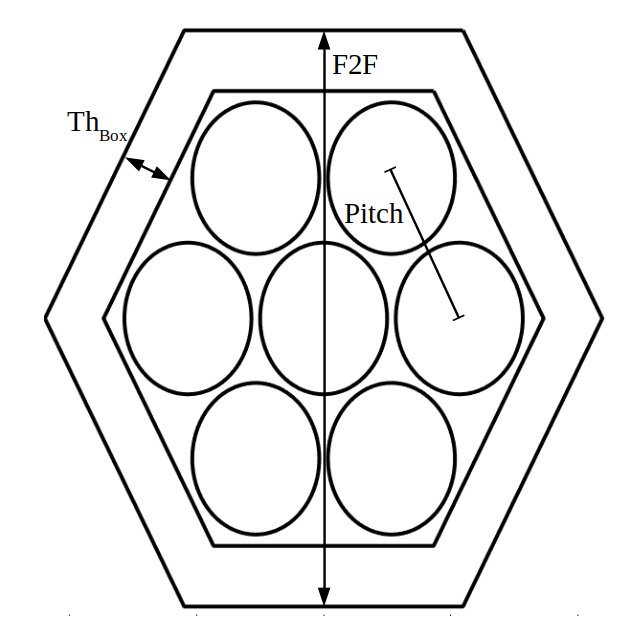
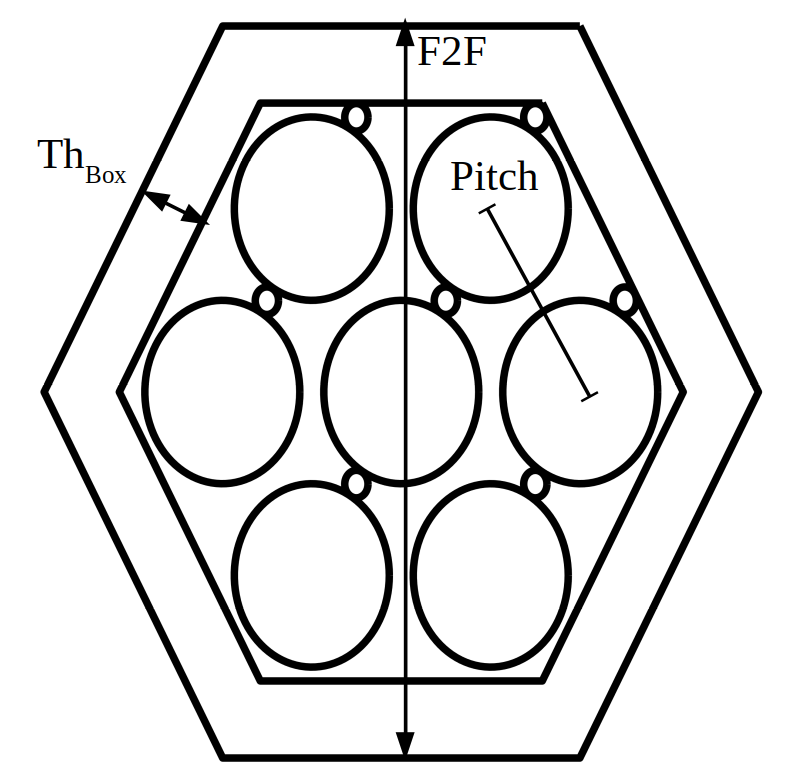
updating some figures

Changed region(s): [[0.0312, 0.0, 0.9672, 0.9952]]

diff --git a/ch04_thermalHydraulics/figs/matlab/geom_build.m b/ch04_thermalHydraulics/figs/matlab/geom_build.m
@@ -1,0 +1,96 @@
+clear
+close all
+
+% plot wedge --> chunk --> Hex
+f2f = 1;
+LW = 2;
+
+half = 0.5 * f2f;
+side = (2.0 * half) / sqrt(3.0);
+base = 0.5 * side;
+% hex with f2f=1, centered at origin
+hex = [...
+    0,0,0;
+    base, half, 0;
+    -base, half,0;
+    0,0,0;
+    -base, half,0;
+    -side, 0,0;
+    0,0,0;
+    -side, 0,0;
+    -base, -half,0;
+    0,0,0;
+    -base, -half,0;
+    base, -half,0;
+    0,0,0;
+    base, -half,0;
+    side,0,0;
+    0,0,0;
+    side,0,0;
+    base,half,0
+    ];
+hex(:,2)=hex(:,2)+half;
+height = 4*side;
+
+assy_front = [...
+    -side, 0,height;
+    -side, 0,0;
+    -base, -half,0;
+    -base, -half,height;
+    -base, -half,0;
+    base, -half,0;
+    base, -half,height;
+    base, -half,0;
+    side,0,0;
+    side,0,height;
+    ];
+assy_front(:,2)=assy_front(:,2)+half;
+   
+first_wedge_front = [...
+    0 0 height;
+    side 0 height;
+    side*cos(pi/3) side*sin(pi/3) height;
+    0 0 height;
+    0 0 0;
+    side 0 0;
+    side 0 height;
+    ];
+first_wedge_rear = [...
+    0 0 0;
+    side*cos(pi/3) side*sin(pi/3) 0;
+    side*cos(pi/3) side*sin(pi/3) height;
+    side*cos(pi/3) side*sin(pi/3) 0;
+    side 0 0;
+    ];    
+   
+figure
+z1 = ones(size(hex(:,1)));
+hold on
+% wedge
+plot3(first_wedge_front(:,1),first_wedge_front(:,2),first_wedge_front(:,3),'k','LineWidth',LW)
+plot3(first_wedge_rear(:,1), first_wedge_rear(:,2), first_wedge_rear(:,3),'--k','LineWidth',LW)
+
+% chunk
+chunk_offset = 3;
+plot3(hex(:,1)+chunk_offset,hex(:,2),hex(:,3)+height,'k','LineWidth',LW);
+plot3(assy_front(:,1)+chunk_offset,assy_front(:,2),assy_front(:,3),'k','LineWidth',LW)
+
+% chevron
+
+% hex
+hex_offset = 6;
+plot3(hex(:,1)+hex_offset,hex(:,2),hex(:,3)+3*height,'k','LineWidth',LW);
+plot3(assy_front(:,1)+hex_offset,assy_front(:,2),assy_front(:,3),'k','LineWidth',LW)
+plot3(assy_front(:,1)+hex_offset,assy_front(:,2),assy_front(:,3)+height,'k','LineWidth',LW)
+plot3(assy_front(:,1)+hex_offset,assy_front(:,2),assy_front(:,3)+2*height,'k','LineWidth',LW)
+
+hold off
+xlim([0,7])
+ylim([0,6])
+zlim([0,7])
+xlabel('x')
+ylabel('y')
+zlabel('z')
+view([0 30])
+set(gca,'Visible','off');
+print(gcf,'geom_build.png','-dpng','-r800'); 

diff --git a/ch04_thermalHydraulics/figs/matlab/hexes.m b/ch04_thermalHydraulics/figs/matlab/hexes.m
@@ -3,13 +3,17 @@ close all
 
 f2f = 15;
 th = 2;
-radius = 2.5;
-LW = 3;
+radius = 2.38;
+wrap = 0.15*radius;
+theta = 60.*(pi/180.);
+pitch = 4.;
+offset = [(radius+wrap)*cos(theta) (radius+wrap)*sin(theta)];
+
+LW = 2.5;
 
 half = 0.5 * 1;
 side = (2.0 * half) / sqrt(3.0);
 base = 0.5 * side;
-
 % hex with f2f=1, centered at origin
 hex = [base, half;
        -base, half;
@@ -32,9 +36,14 @@ plot(hex(:,1)*f2f,hex(:,2)*f2f,'k','LineWidth',LW)
 plot(hex(:,1)*(f2f+2*th),hex(:,2)*(f2f+2*th),'k','LineWidth',LW)
 % center circle
 plot(circle(:,1)*radius,circle(:,2)*radius,'k','LineWidth',LW)
+plot(circle(:,1)*wrap+offset(1),circle(:,2)*wrap+offset(2),'k','LineWidth',LW)
 % ring of pins
 for i = 1:6
-    this_circle = circle*radius + hex(i,:)*3.7*radius;
+    this_circle = circle*radius + hex(i,:)*pitch*radius;
+    this_wrap = circle*wrap + hex(i,:)*pitch*radius + offset;
     plot(this_circle(:,1),this_circle(:,2),'k','LineWidth',LW)
+    plot(this_wrap(:,1),this_wrap(:,2),'k','LineWidth',LW)
 end
-    
+
+set(gca,'Visible','off');
+print(gcf,'foo.png','-dpng','-r800'); 
